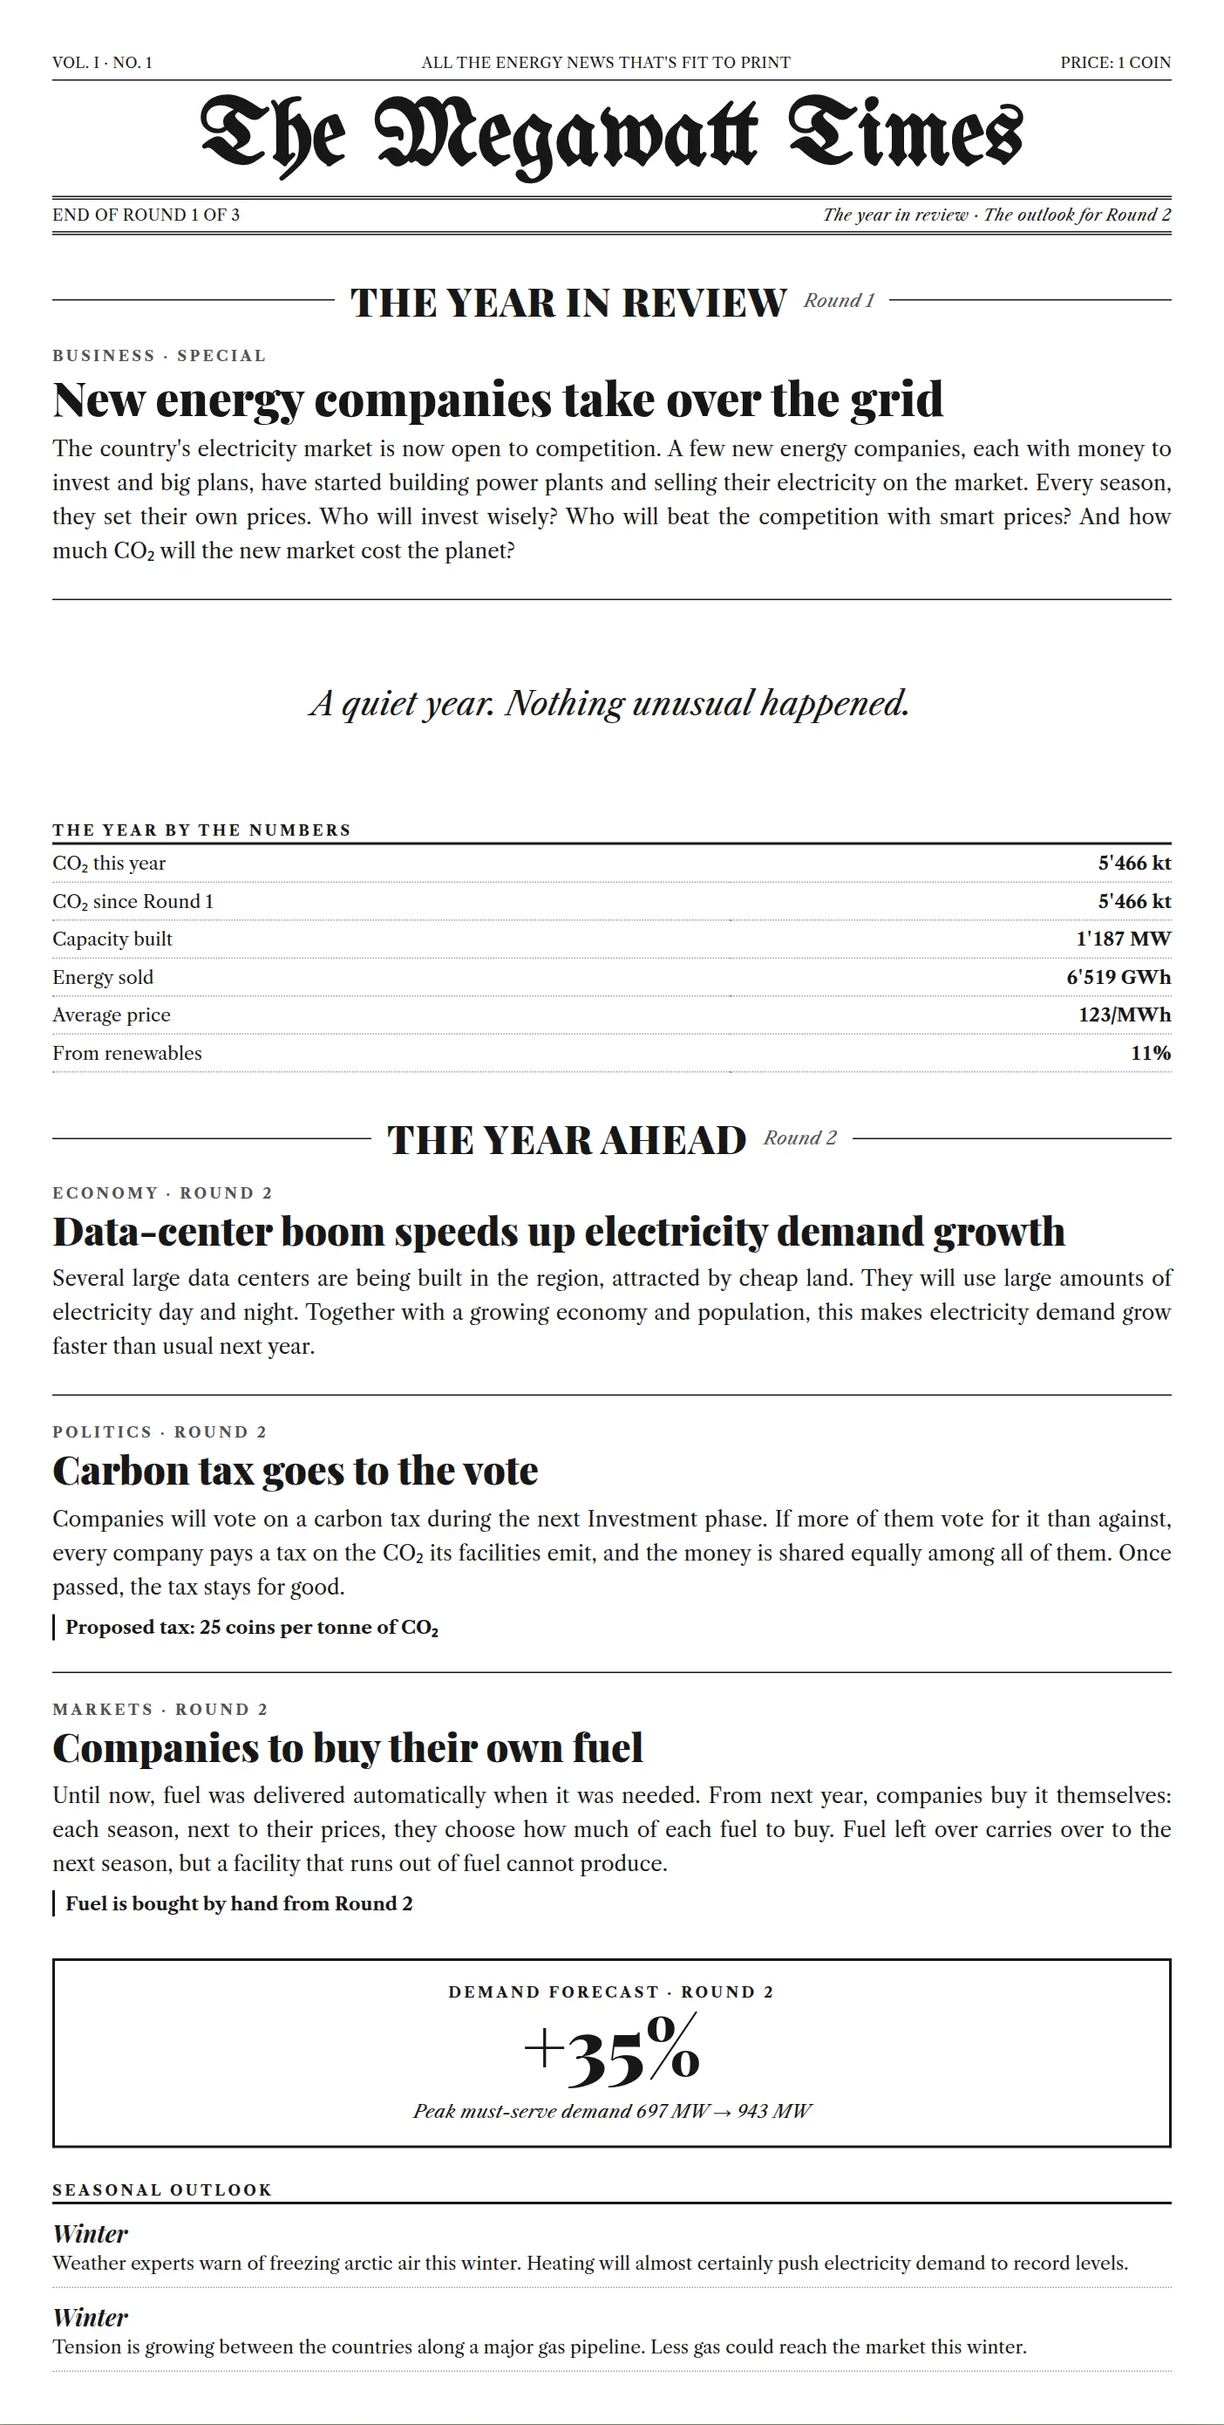
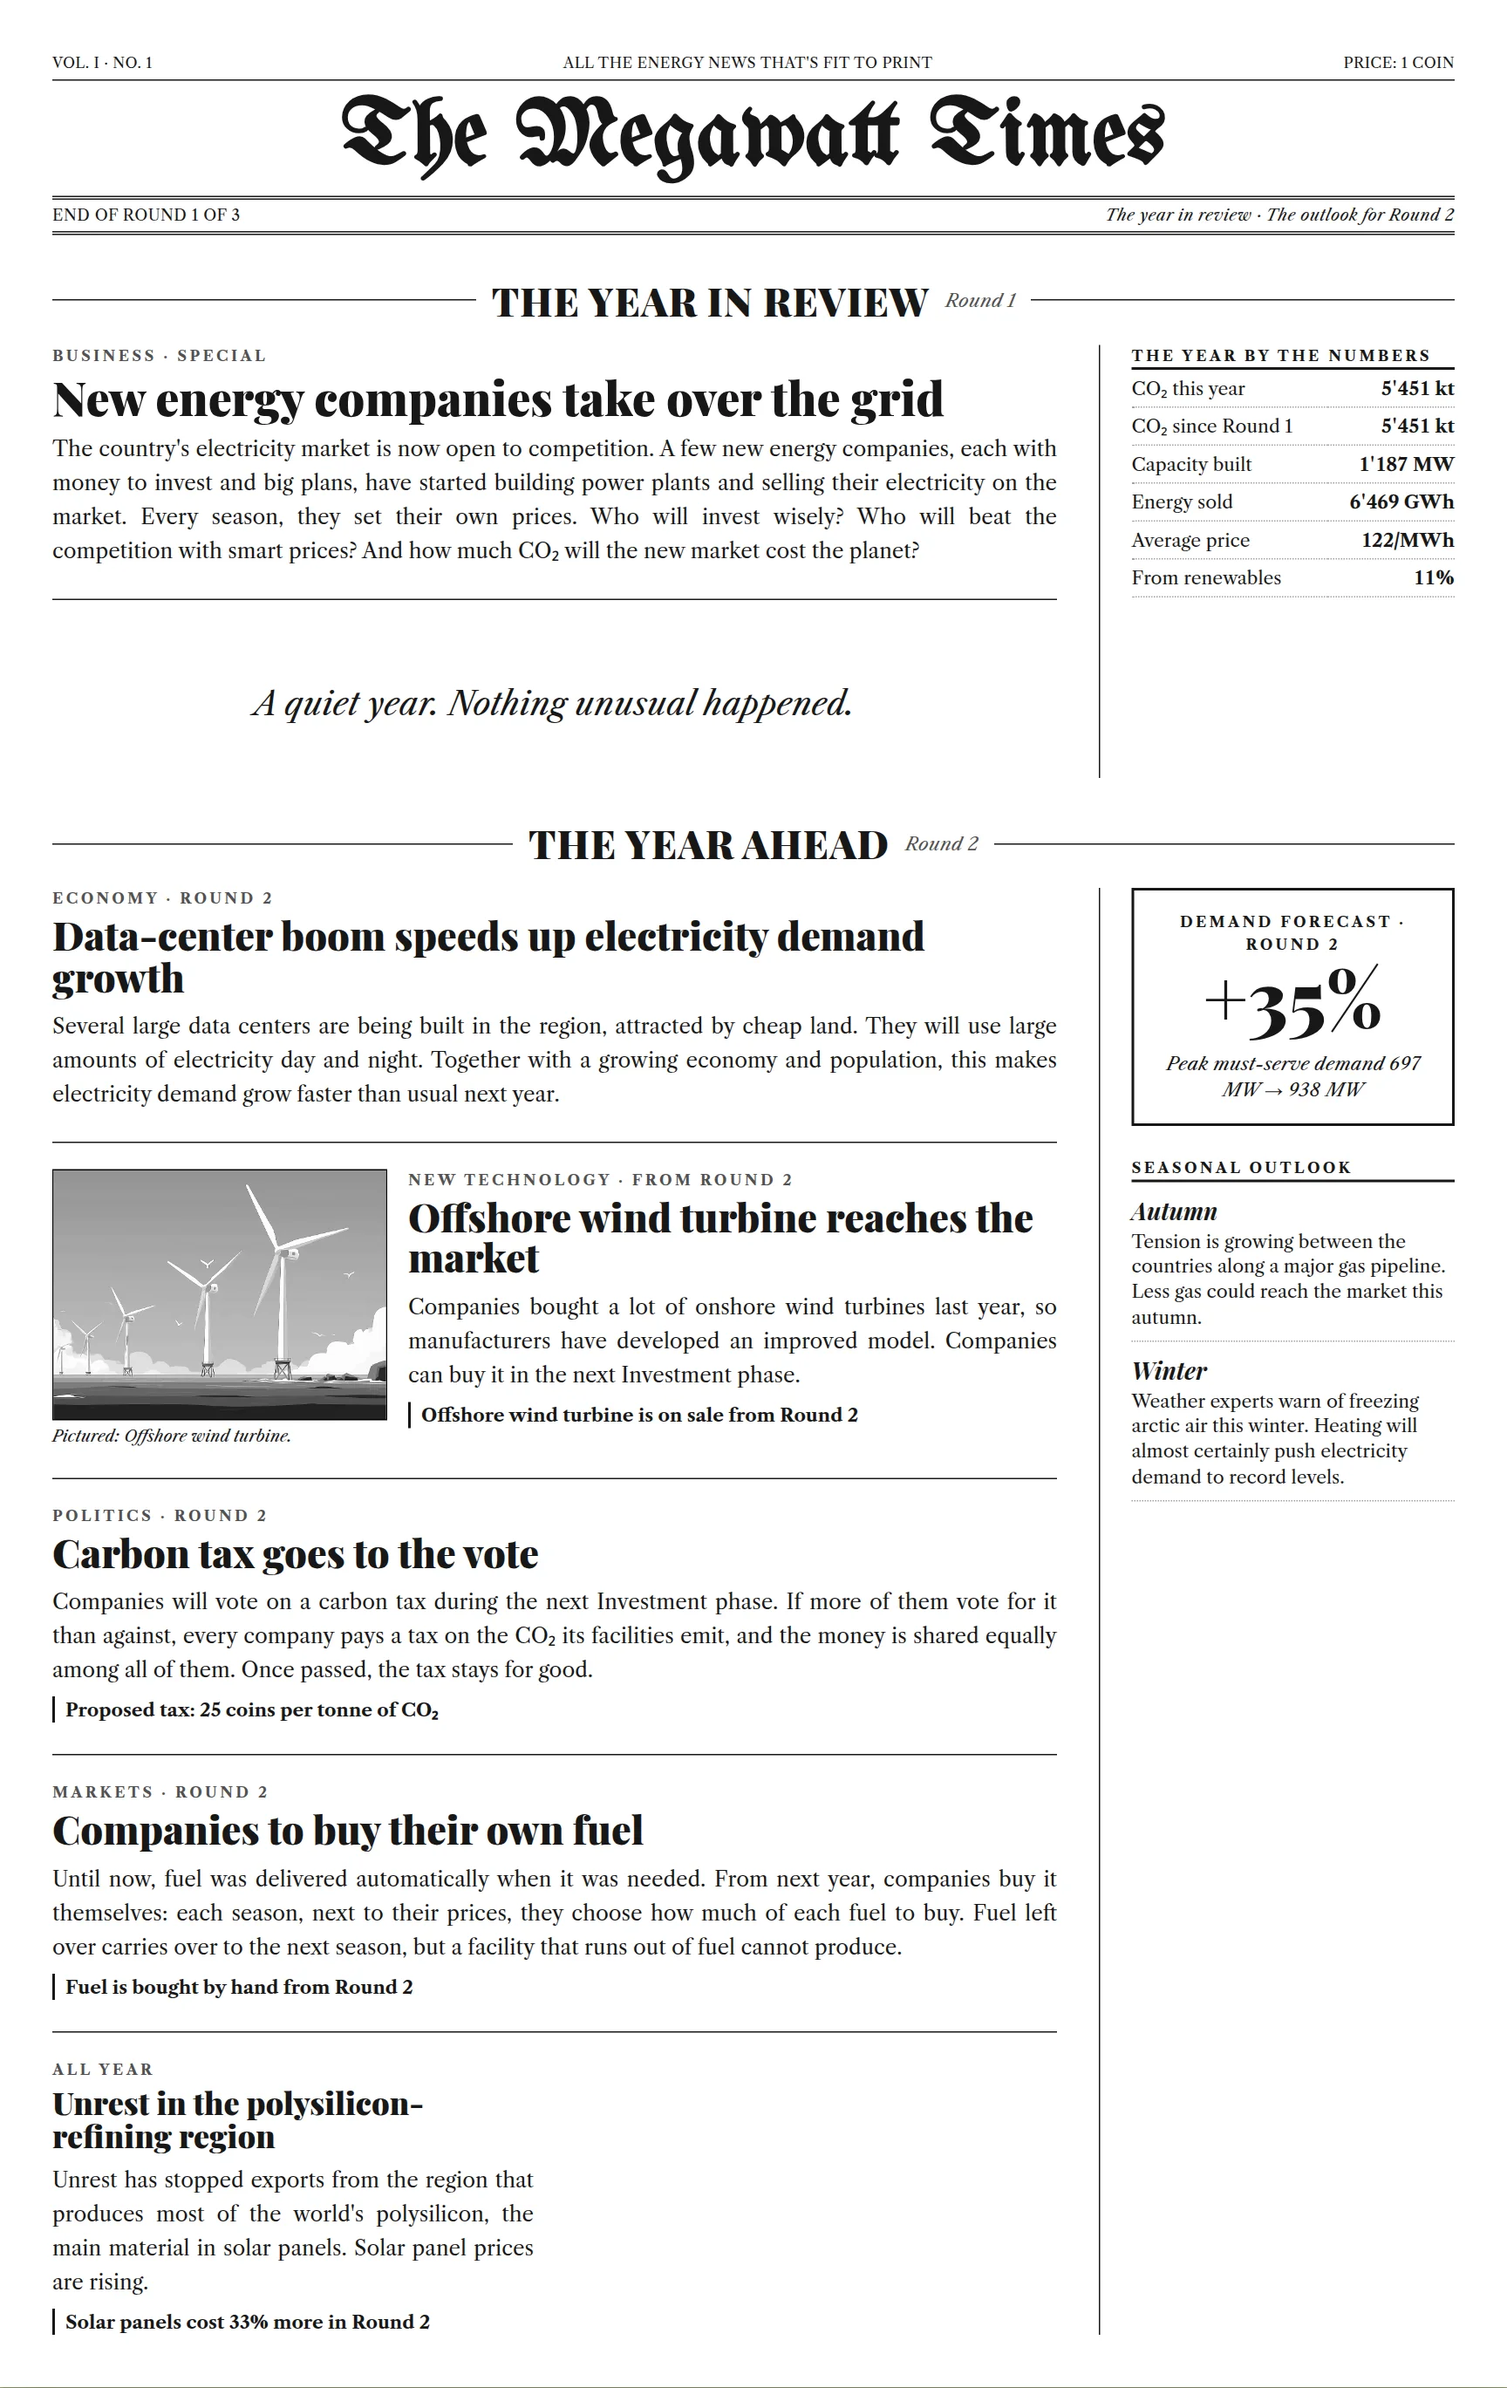
feat(landing): show the catalog cards and a fuller newspaper on the workshops page
Open the page like For Educators, with an image first and the text below it
and no pine card behind them. The image is a row of five facility cards with
their price tags, from the game's catalog.

The Megawatt Times example now uses the game's own width, so it runs in two
columns. It also shows a new facility, a facility price shock and the gas
pipeline warning in autumn.

Put the round loop on the bone background, and let the text on the large pine
cards of The Game and Workshops run wider. Includes the page's new wording.

diff --git a/frontend/apps/landing/src/components/workshop-page.tsx b/frontend/apps/landing/src/components/workshop-page.tsx
@@ -24,8 +24,8 @@ import {
 import { useState } from "react";
 
 import megawattTimesExample from "@/assets/megawatt_times_example.webp";
+import facilityCards from "@/assets/workshop_facility_cards.webp";
 import roundLoop from "@/assets/workshop_round_loop.webp";
-import tradingPeriod from "@/assets/workshop_trading_period.webp";
 import { HomeLayout } from "@/components/home-layout";
 import { workshopEnquiryHref } from "@/lib/contact";
 
@@ -38,25 +38,25 @@ const facts = [
 
 const outcomes: { title: string; description: string; icon: LucideIcon }[] = [
     {
-        title: "How the price is set",
+        title: "How market prices are set",
         description:
             "Why the most expensive plant the market still needs sets the price for everyone, and what that means for each company's profit.",
         icon: Zap,
     },
     {
-        title: "How a power plant pays off",
+        title: "Economic concepts in practice",
         description:
-            "The difference between marginal cost, which decides what to bid today, and the levelised cost of electricity (LCOE), which decides what to build.",
+            "The difference between marginal cost and the levelised cost of electricity (LCOE) and how they are calculated.",
         icon: Coins,
     },
     {
-        title: "What renewables and storage change",
+        title: "The challenges of the energy transition",
         description:
-            "How wind, sun and batteries move prices across the day and the seasons, and how that changes which plants still earn money.",
+            "The impact of wind, solar and batteries on the market and how they affect the prices across the day and the seasons.",
         icon: Sun,
     },
     {
-        title: "Why some problems are shared",
+        title: "The consequences of individual choices",
         description:
             "Blackouts and CO₂ emissions come from choices each company makes alone, but everyone bears the result. A carbon tax is something the group has to decide together.",
         icon: Scale,
@@ -71,17 +71,17 @@ const steps = [
     {
         title: "Set prices",
         description:
-            "For each of the four seasons, companies set the price at which they sell their electricity.",
+            "For each of the four seasons, companies bid on the market by setting the price they are ready to sell electricity at.",
     },
     {
         title: "See the market clear",
         description:
-            "The market runs at once, and the group looks at the results together: who sold, at what price, and why.",
+            "The market settles and the group looks at the results together: who sold, at what price, and why.",
     },
     {
-        title: "Read the news",
+        title: "Adaptive Gameplay",
         description:
-            "The Megawatt Times reports on the year and announces what is coming next.",
+            "At the end of each round, an in-game newspaper recaps the year’s events, announces new developments, and sets out the decisions waiting in the next round. The game adapts as it goes: difficulty and available features evolve with the group’s choices, so every session stays engaging and challenging.",
     },
 ];
 
@@ -93,7 +93,7 @@ const audiences: { label: string; icon: LucideIcon }[] = [
 ];
 
 const weBring = [
-    "Facilitators who run the session in the room",
+    "Facilitators who run the in-person session",
     "The server the game runs on",
     "Accounts for every participant",
     "Printed help sheets",
@@ -110,13 +110,13 @@ const youProvide = [
 function ExampleEdition() {
     const [open, setOpen] = useState(false);
     const alt =
-        "An example edition of The Megawatt Times, with articles on a data centre boom, a carbon tax vote and a demand forecast";
+        "An example edition of The Megawatt Times, with articles on a data centre boom, the arrival of offshore wind turbines, a carbon tax vote and a rise in solar panel prices";
     return (
         <>
             <button
                 onClick={() => setOpen(true)}
                 aria-label="Read the full example edition of The Megawatt Times"
-                className="group relative block w-full h-112 overflow-hidden rounded-4xl bg-white shadow-md cursor-zoom-in text-left"
+                className="group relative block w-full h-144 overflow-hidden rounded-4xl bg-white shadow-md cursor-zoom-in text-left"
             >
                 <img src={megawattTimesExample} alt={alt} className="w-full" />
                 <div className="absolute inset-x-0 bottom-0 h-32 bg-linear-to-t from-white to-transparent" />
@@ -126,7 +126,7 @@ function ExampleEdition() {
                 </span>
             </button>
             <Dialog open={open} onOpenChange={setOpen}>
-                <DialogContent className="max-w-[90vw] sm:max-w-3xl max-h-[90vh] overflow-y-auto p-2 bg-white">
+                <DialogContent className="max-w-[90vw] sm:max-w-5xl max-h-[90vh] overflow-y-auto p-2 bg-white">
                     <DialogTitle className="sr-only">
                         The Megawatt Times, example edition
                     </DialogTitle>
@@ -160,23 +160,32 @@ export function WorkshopPage() {
     return (
         <HomeLayout>
             <div className="flex flex-col gap-20 px-6 lg:px-8">
-                {/* Hero */}
-                <section className="bg-primary rounded-4xl shadow-md px-6 pt-12 pb-8 sm:px-12 sm:pt-16 flex flex-col items-center gap-6 text-center">
-                    <TypographyH1 className="text-primary-foreground tracking-tight leading-tight">
+                {/* Banner image */}
+                <section className="max-w-6xl mx-auto w-full">
+                    <img
+                        src={facilityCards}
+                        alt="Five facility cards from the game's catalog, each with its price tag: PV solar, offshore wind turbine, lithium-ion batteries, nuclear reactor and coal burner"
+                        className="w-full"
+                    />
+                </section>
+
+                {/* Header */}
+                <section className="flex flex-col gap-6 max-w-3xl">
+                    <TypographyH1>
                         Run an Electricity Market in a Single Afternoon
                     </TypographyH1>
-                    <TypographyLead className="text-primary-foreground max-w-2xl">
+                    <TypographyLead className="text-foreground">
                         In an Energetica workshop, your group runs competing
                         energy companies. They build power plants, set their
                         prices and face the consequences together. Our
                         facilitators lead the session, and no energy background
                         is needed.
                     </TypographyLead>
-                    <ul className="flex flex-wrap justify-center gap-2">
+                    <ul className="flex flex-wrap gap-2">
                         {facts.map((fact) => (
                             <li
                                 key={fact}
-                                className="bg-primary-foreground/15 text-primary-foreground font-semibold px-4 py-1 rounded-full"
+                                className="bg-card text-foreground font-semibold px-4 py-1 rounded-full shadow-sm"
                             >
                                 {fact}
                             </li>
@@ -184,15 +193,10 @@ export function WorkshopPage() {
                     </ul>
                     <a
                         href={workshopEnquiryHref}
-                        className="bg-primary-foreground text-primary font-bold text-lg px-10 py-4 rounded-4xl shadow hover:opacity-90 hover:shadow-xl active:scale-95 transition-all"
+                        className="w-fit bg-primary text-primary-foreground font-bold text-lg px-10 py-4 rounded-4xl shadow-md hover:bg-primary/90 hover:shadow-xl active:scale-95 transition-all"
                     >
                         Ask about a workshop
                     </a>
-                    <img
-                        src={tradingPeriod}
-                        alt="Energetica during a workshop: the timeline of the session above a chart of one company's electricity generation over a winter week"
-                        className="mt-4 w-full rounded-3xl shadow-lg"
-                    />
                 </section>
 
                 {/* Outcomes */}
@@ -226,17 +230,12 @@ export function WorkshopPage() {
                         <TypographyH2 className="text-primary">
                             How a Session Runs
                         </TypographyH2>
-                        <TypographyP>
-                            A session is made of Rounds, and each Round stands
-                            for one year. A Round takes about 30 minutes, plus
-                            time to discuss what happened.
-                        </TypographyP>
                     </div>
                     <div className="grid gap-8 xl:grid-cols-2 items-center">
                         <img
                             src={roundLoop}
                             alt="One Round is one year: an Investment phase, then price setting and a market simulation for spring, summer, autumn and winter, then a Round Recap"
-                            className="w-full rounded-4xl bg-white shadow-md"
+                            className="w-full rounded-4xl bg-card shadow-md"
                         />
                         <ol className="flex flex-col gap-6">
                             {steps.map((step, index) => (
@@ -257,7 +256,7 @@ export function WorkshopPage() {
                 </section>
 
                 {/* The Megawatt Times */}
-                <section className="max-w-6xl mx-auto w-full grid gap-8 xl:grid-cols-2 items-center">
+                <section className="max-w-6xl mx-auto w-full flex flex-col gap-8">
                     <div className="flex flex-col gap-4">
                         <TypographyH2 className="text-primary">
                             The News at the End of Every Year
@@ -317,7 +316,7 @@ export function WorkshopPage() {
                         <TypographyH2 className="text-primary-foreground">
                             Bring a Workshop to Your Group
                         </TypographyH2>
-                        <TypographyLead className="text-primary-foreground max-w-xl">
+                        <TypographyLead className="text-primary-foreground max-w-3xl">
                             Pricing depends on group size, location and how much
                             we adapt the session. Send us your date and group
                             size, and we'll send you a quote.

diff --git a/frontend/apps/landing/src/components/landing-page.tsx b/frontend/apps/landing/src/components/landing-page.tsx
@@ -227,13 +227,13 @@ export function LandingPage() {
                                     <br />
                                     Drive the Transition.
                                 </TypographyH1>
-                                <TypographyLead className="text-primary-foreground sm:text-xl max-w-2xl mx-auto leading-relaxed">
+                                <TypographyLead className="text-primary-foreground sm:text-xl max-w-4xl mx-auto leading-relaxed text-pretty">
                                     Energetica is a multiplayer strategy game
                                     where you manage a power grid, compete on
                                     electricity markets, and face the collective
                                     consequences of CO₂ emissions.
                                 </TypographyLead>
-                                <TypographyLead className="text-primary-foreground sm:text-xl max-w-2xl mx-auto leading-relaxed">
+                                <TypographyLead className="text-primary-foreground sm:text-xl max-w-4xl mx-auto leading-relaxed text-pretty">
                                     A powerful tool for understanding real
                                     energy trade-offs, already used in courses
                                     at <b>ETH Zürich</b> and <b>ZHAW</b>.
